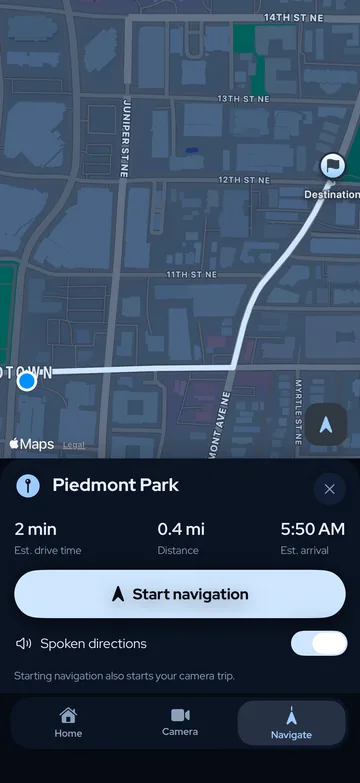
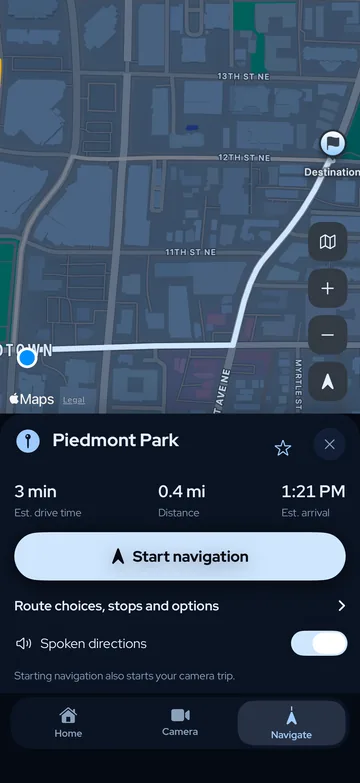
Website: use the current route preview screenshot
Nick's latest main_v3 adds map controls, a favourite star and route
options to the route preview. The site and press kit now show that
screen, taken by the Simulator tour on claude/xcode-fix (run
39427131942), which builds main_v3 with the Xcode fix.

diff --git a/web/index.html b/web/index.html
@@ -247,7 +247,7 @@
             </div>
             <div class="device"><div class="device__body">
               <div class="device__screen">
-                <img src="assets/img/05-route-preview-360.webp" srcset="assets/img/05-route-preview-360.webp 360w, assets/img/05-route-preview-720.webp 720w" sizes="(max-width: 640px) 240px, 260px" width="360" height="783" loading="lazy" decoding="async" alt="A route to Piedmont Park on a map: 2 minutes, 0.4 miles, with a Start navigation button and spoken directions switched on.">
+                <img src="assets/img/05-route-preview-360.webp" srcset="assets/img/05-route-preview-360.webp 360w, assets/img/05-route-preview-720.webp 720w" sizes="(max-width: 640px) 240px, 260px" width="360" height="783" loading="lazy" decoding="async" alt="A route to Piedmont Park on a map: 3 minutes, 0.4 miles, with a Start navigation button, route options and spoken directions switched on.">
               </div>
               <span class="device__island"></span></div>
             </div>
